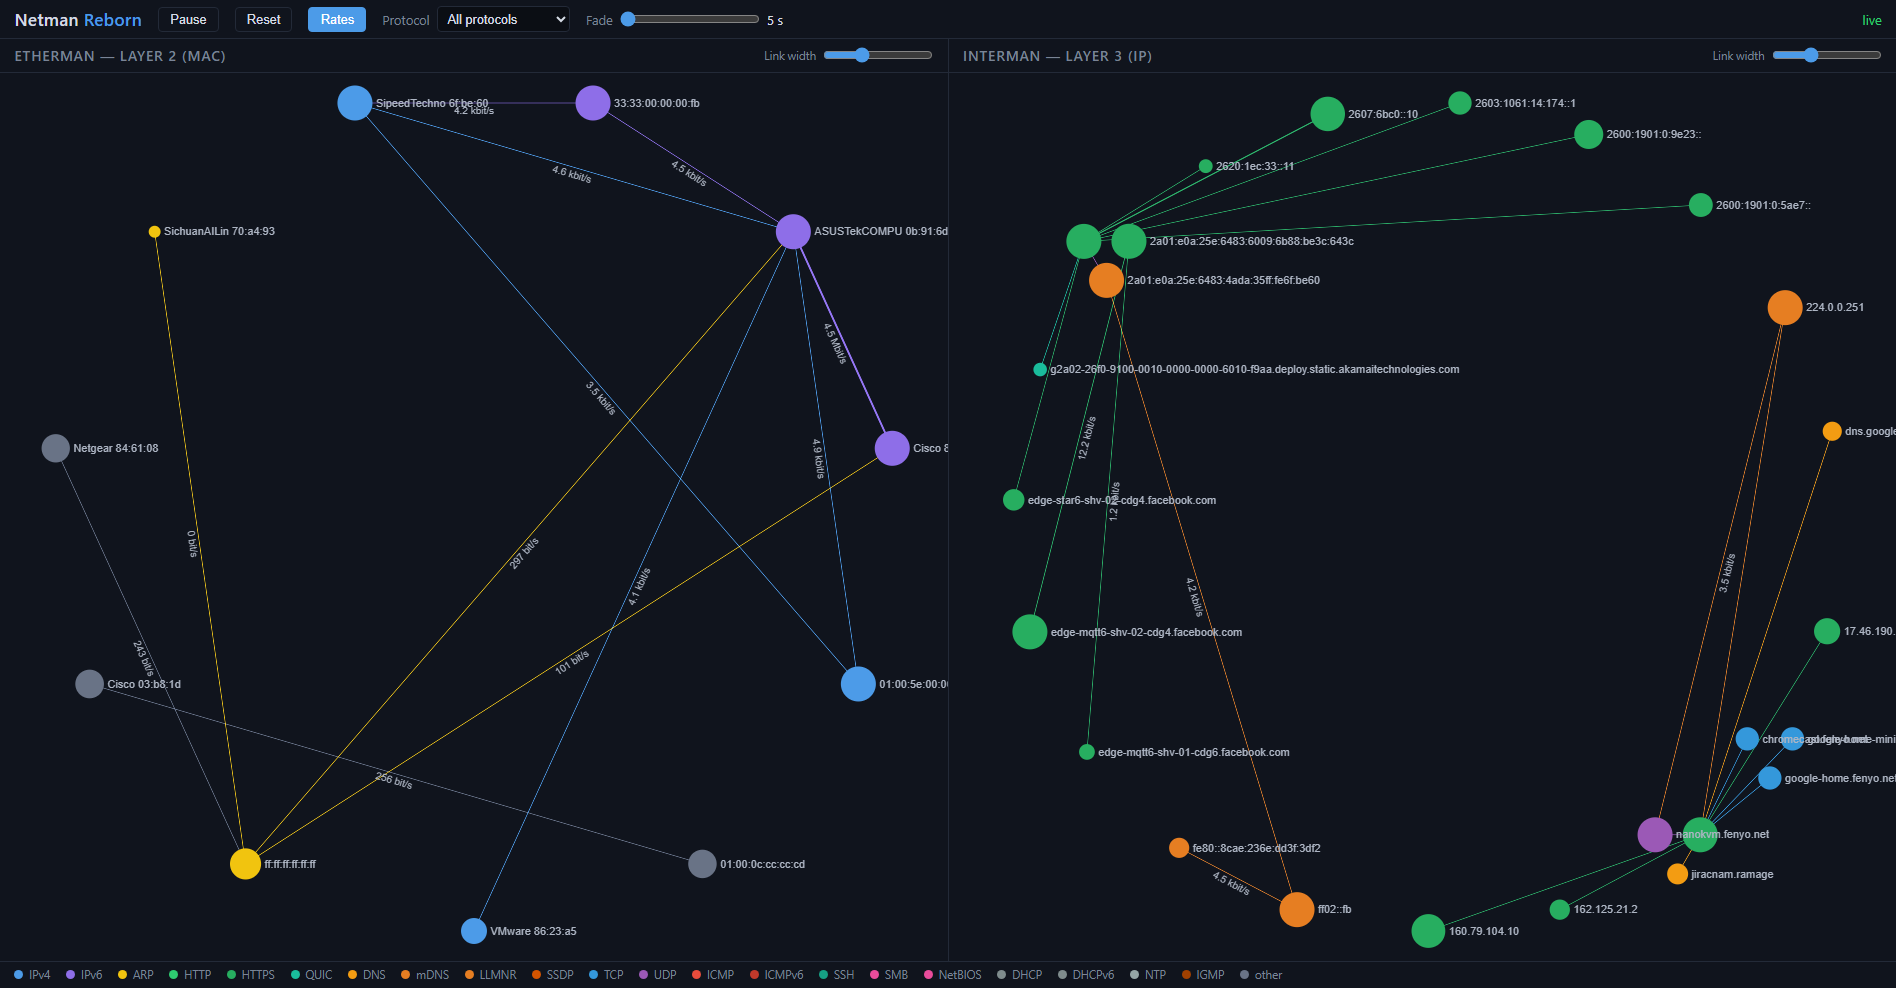
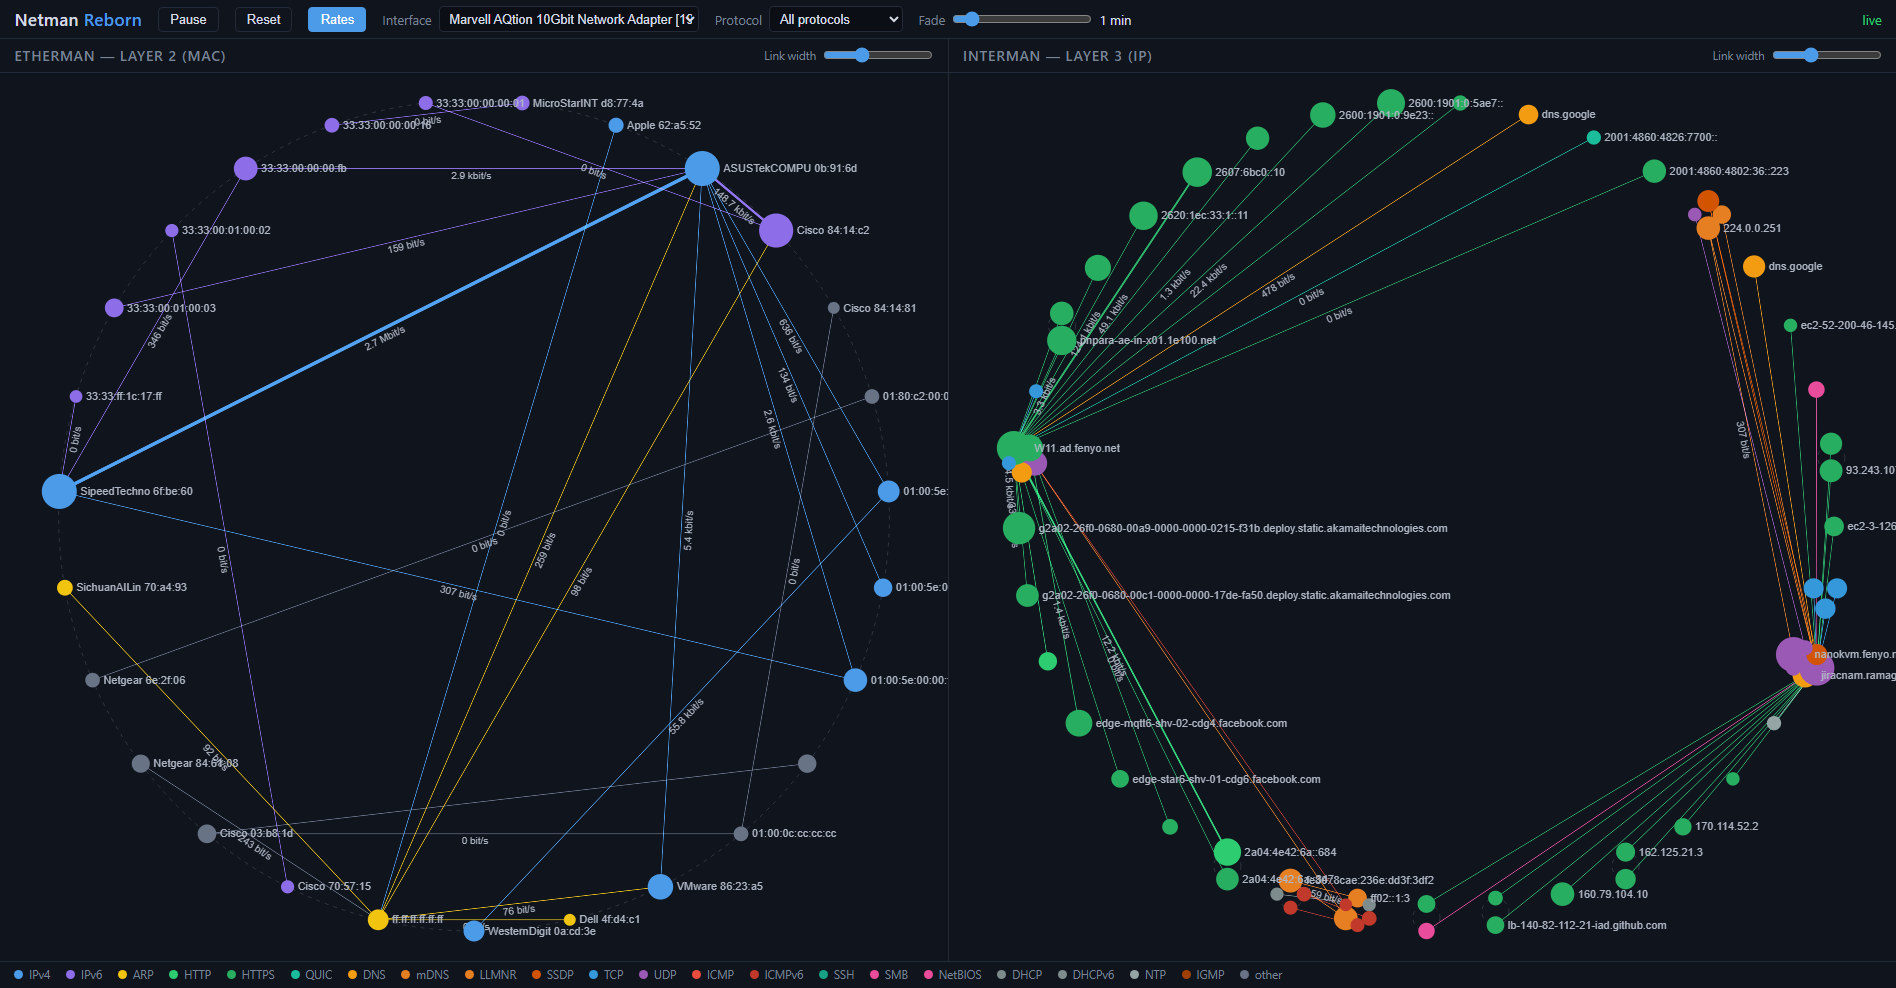
Dashed guide circles behind both views; README: Telecom Paris origin story
- Each view gets an underlay canvas (below sigma layers, pointer-events
  none) redrawn on afterRender with the camera transform: layout circles
  are stroked in thin light-gray dashes so node placement reads at a
  glance (Etherman single circle, Interman per-network circles;
  singletons skipped). Geometry published by the layouts, cleared on view
  clear, DPR-aware.
- README opens with the project origin: the author used the original
  Netman tools on a Sun SPARC under SunOS 4.1.2, 1991-1994, at Telecom
  Paris. Screenshot refreshed (guide circles + interface selector).

Claude-Session: https://claude.ai/code/session_014x4ZEpyAL8ZxVhzYitp9VS

diff --git a/static/app.js b/static/app.js
@@ -171,7 +171,8 @@ class GraphView {
      * recalcul d'attributs au changement de slider. */
     this.widthScale = 1;
     this.animFrame = null; /* animation de re-layout en cours */
-    this.renderer = new Sigma(this.graph, document.getElementById(containerId), {
+    const container = document.getElementById(containerId);
+    this.renderer = new Sigma(this.graph, container, {
       ...SIGMA_BASE_SETTINGS,
       nodeReducer: (_node, data) => {
         if (protoFilter && data.proto !== protoFilter) {
@@ -187,6 +188,43 @@ class GraphView {
       },
     });
     this.layout = null;
+    /* Calque des cercles-guides : un canvas SOUS les rendus sigma (premier
+     * enfant du conteneur), redessiné après chaque frame avec la caméra
+     * courante. Les layouts publient leurs cercles dans guideCircles. */
+    this.guideCircles = [];
+    this.guideCanvas = document.createElement("canvas");
+    this.guideCanvas.className = "guides";
+    container.insertBefore(this.guideCanvas, container.firstChild);
+    this.renderer.on("afterRender", () => this.drawGuides());
+  }
+
+  drawGuides() {
+    const canvas = this.guideCanvas;
+    const parent = canvas.parentElement;
+    const dpr = window.devicePixelRatio || 1;
+    const w = parent.clientWidth;
+    const h = parent.clientHeight;
+    if (canvas.width !== Math.round(w * dpr) || canvas.height !== Math.round(h * dpr)) {
+      canvas.width = Math.round(w * dpr);
+      canvas.height = Math.round(h * dpr);
+      canvas.style.width = `${w}px`;
+      canvas.style.height = `${h}px`;
+    }
+    const ctx = canvas.getContext("2d");
+    ctx.setTransform(dpr, 0, 0, dpr, 0, 0);
+    ctx.clearRect(0, 0, w, h);
+    ctx.strokeStyle = "rgba(165, 175, 190, 0.22)"; /* gris clair, discret */
+    ctx.lineWidth = 1;
+    ctx.setLineDash([4, 5]); /* pointillés */
+    for (const circle of this.guideCircles) {
+      const center = this.renderer.graphToViewport({ x: circle.cx, y: circle.cy });
+      const rim = this.renderer.graphToViewport({ x: circle.cx + circle.r, y: circle.cy });
+      const radius = Math.hypot(rim.x - center.x, rim.y - center.y);
+      if (radius < 3) continue;
+      ctx.beginPath();
+      ctx.arc(center.x, center.y, radius, 0, 2 * Math.PI);
+      ctx.stroke();
+    }
   }
 
   /* FA2 refuse un graphe vide : démarrage paresseux au premier nœud.
@@ -245,6 +283,7 @@ class GraphView {
       const angle = (2 * Math.PI * i) / count - Math.PI / 2;
       targets[id] = { x: radius * Math.cos(angle), y: radius * Math.sin(angle) };
     });
+    this.guideCircles = count > 0 ? [{ cx: 0, cy: 0, r: radius }] : [];
     this.animateTo(targets);
   }
 
@@ -271,12 +310,14 @@ class GraphView {
         ? 0
         : Math.max(150, (networkCount * (2 * maxRadius + 50)) / (2 * Math.PI));
     const targets = {};
+    const guides = [];
     keys.forEach((key, ki) => {
       const centerAngle = (2 * Math.PI * ki) / networkCount - Math.PI / 2;
       const cx = ringRadius * Math.cos(centerAngle);
       const cy = ringRadius * Math.sin(centerAngle);
       const members = groups.get(key).sort(compareNodeIds);
       const radius = clusterRadius(members.length);
+      if (radius > 0) guides.push({ cx, cy, r: radius });
       members.forEach((id, i) => {
         const angle = (2 * Math.PI * i) / members.length - Math.PI / 2;
         targets[id] = {
@@ -285,6 +326,7 @@ class GraphView {
         };
       });
     });
+    this.guideCircles = guides;
     this.animateTo(targets);
   }
 
@@ -438,6 +480,7 @@ class GraphView {
       this.animFrame = null;
     }
     this.resetLayout();
+    this.guideCircles = [];
     this.graph.clear();
   }
 }

diff --git a/static/style.css b/static/style.css
@@ -127,7 +127,14 @@ body { display: flex; flex-direction: column; }
   accent-color: var(--accent);
 }
 
-.graph { flex: 1; min-height: 0; }
+.graph { flex: 1; min-height: 0; position: relative; }
+
+/* Calque des cercles-guides, sous les canvases sigma. */
+.graph canvas.guides {
+  position: absolute;
+  inset: 0;
+  pointer-events: none;
+}
 
 /* Légende des couleurs de protocole (mapping visuel fixe). */
 #legend {

diff --git a/README.md b/README.md
@@ -11,6 +11,12 @@ navigateur et alimentés par **une seule capture réseau**.
   (classful IPv4, /64 IPv6), les réseaux répartis sur un anneau.
 - Outil **strictement passif** : capture et affichage, aucune injection.
 
+> **Pourquoi ce projet ?** J'ai utilisé les outils originaux de la suite
+> Netman (Etherman, Interman…) sur station **Sun SPARC sous SunOS 4.1.2**,
+> de **1991 à 1994**, à **[Télécom Paris](https://www.telecom-paris.fr/)**,
+> mon école d'ingénieur. Ce dépôt en est une recréation moderne, fidèle à
+> leur esthétique et à leur esprit.
+
 ![Netman Reborn — Etherman (L2) et Interman (L3) côte à côte, sur trafic réel](docs/screenshot.png)
 
 ## Prérequis